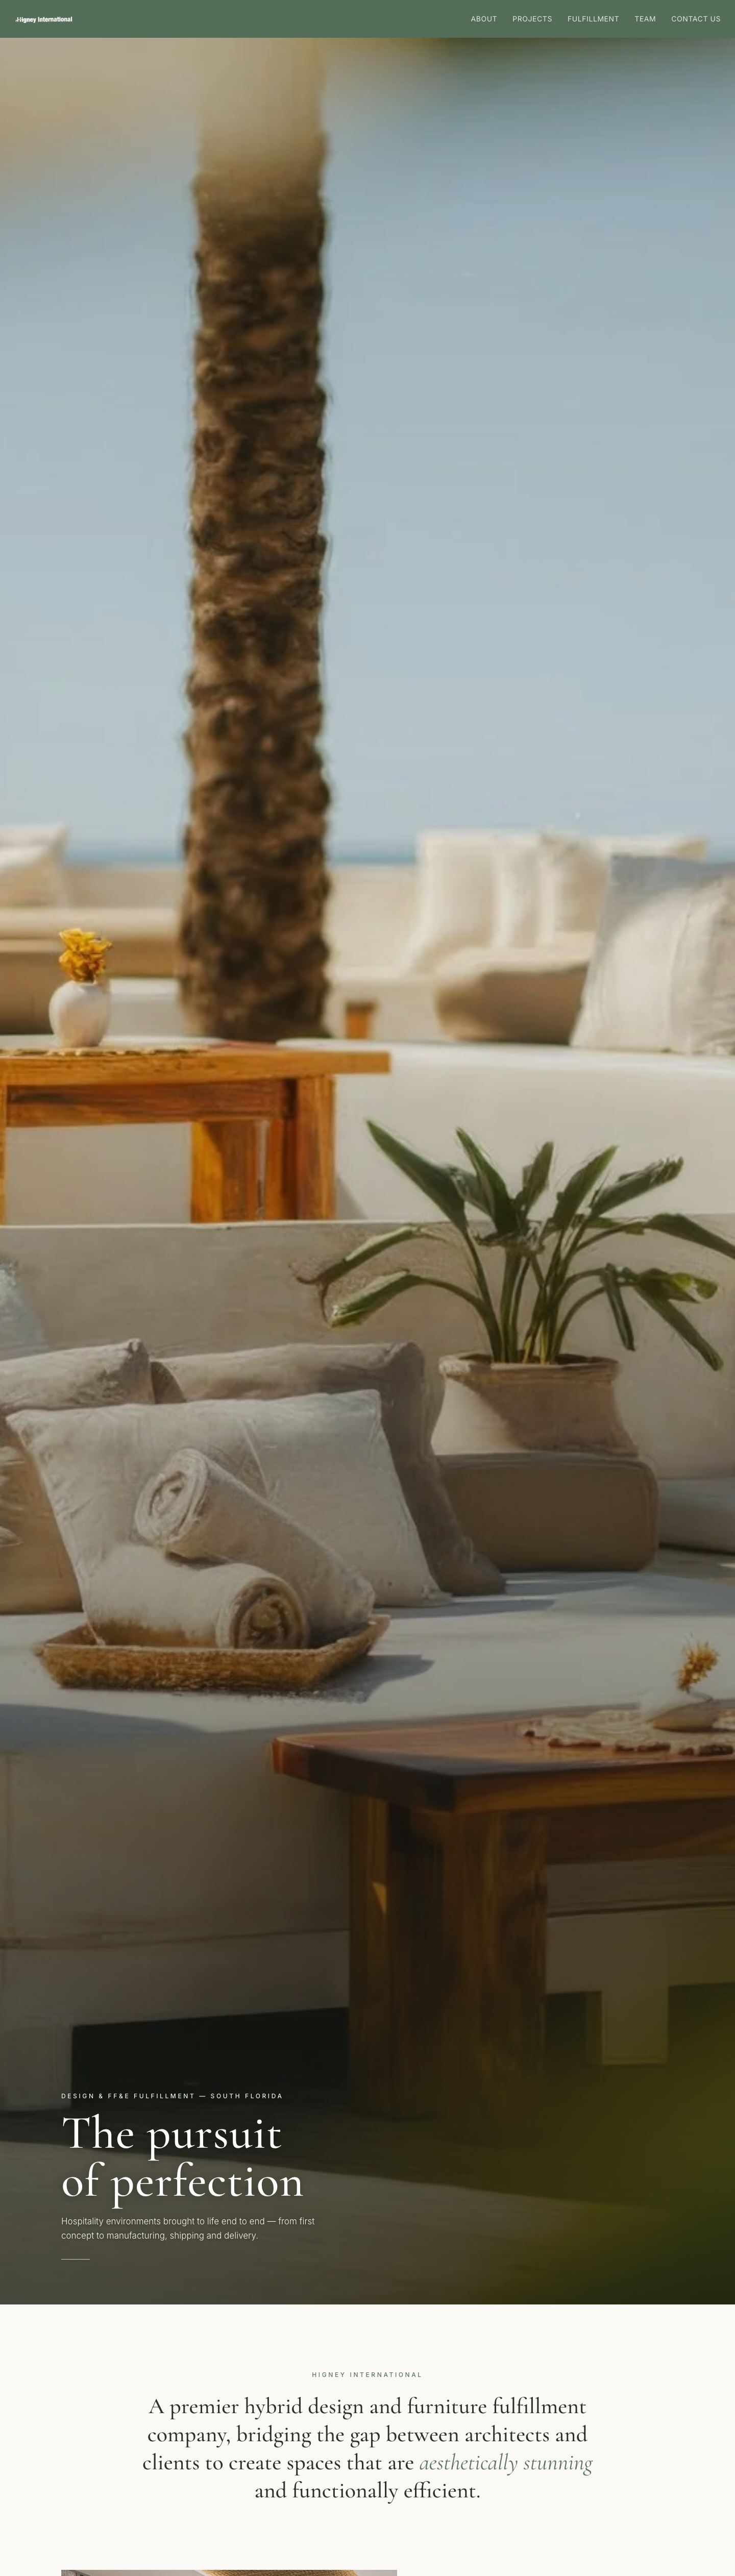
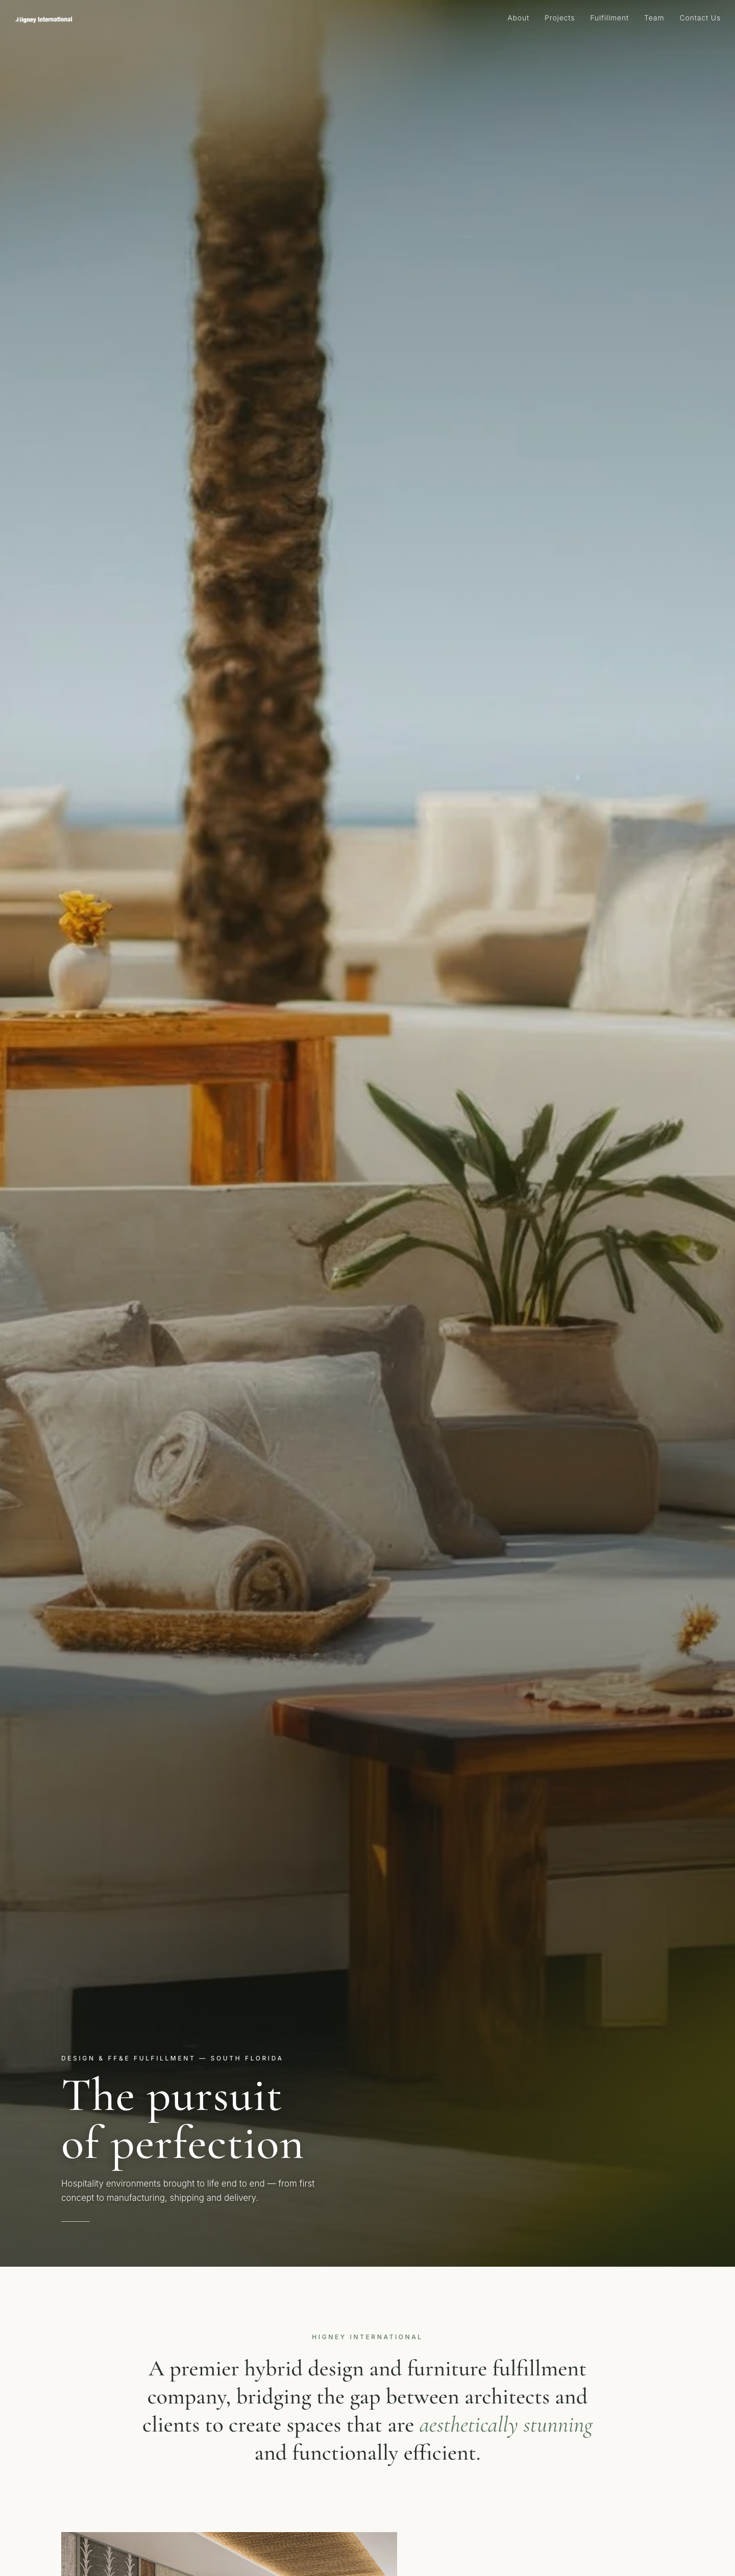
Restyle nav to Eric Brand minimal style: transparent over hero, sage on scroll
Header is now fixed and transparent at the top of the page, letting the
hero photo run edge-to-edge to the very top with the nav overlaid. Links
drop the bold uppercase treatment for quiet title-case Inter 300 with a
subtle underline on hover/active. On scroll past 40px a tiny inline
script toggles .scrolled, fading the bar to solid sage rgba(78,104,84,.97)
so links stay readable past the hero. Top-of-hero scrims strengthened
slightly (dark 0.42 on index, 0.28 band on projects) to keep the white
nav legible over the photos. Mobile hamburger and sage dropdown retained.
Applied identically to index.html and projects.html.

diff --git a/projects.html b/projects.html
@@ -29,17 +29,20 @@
   a{color:inherit;text-decoration:none}
 
   /* Header */
-  header{position:sticky;top:0;z-index:50;background:rgba(78,104,84,.97);backdrop-filter:blur(6px)}
+  header{position:fixed;top:0;left:0;right:0;z-index:50;background:transparent;transition:background .35s ease}
+  header.scrolled{background:rgba(78,104,84,.97);backdrop-filter:blur(6px)}
   .nav{width:100%;margin:0;padding:16px 28px;display:flex;align-items:center;justify-content:space-between}
   .nav img{height:42px;width:auto}
   .nav nav{display:flex;gap:30px}
-  .nav nav a{color:#dfeae3;font-size:14px;font-weight:400;letter-spacing:.04em;text-transform:uppercase;transition:color .2s}
-  .nav nav a:hover,.nav nav a.active{color:#fff}
+  .nav nav a{color:rgba(255,255,255,.92);font-size:14px;font-weight:300;letter-spacing:.06em;
+    border-bottom:1px solid transparent;padding-bottom:2px;transition:color .2s,border-color .2s}
+  .nav nav a:hover,.nav nav a.active{color:#fff;border-bottom-color:rgba(255,255,255,.55)}
   .menu-btn{display:none;background:none;border:none;color:#fff;font-size:24px;cursor:pointer}
 
   /* Hero */
   .hero{position:relative;color:#fff;text-align:center;padding:140px 28px 130px;
-    background:linear-gradient(150deg,rgba(122,154,130,.78) 0%,rgba(90,117,97,.82) 100%),
+    background:linear-gradient(180deg,rgba(21,28,23,.28) 0%,rgba(21,28,23,0) 30%),
+      linear-gradient(150deg,rgba(122,154,130,.78) 0%,rgba(90,117,97,.82) 100%),
       url("assets/6b0a0d959f_DSC08338.jpg") center/cover no-repeat;}
   .hero .eyebrow{font-size:13px;letter-spacing:.32em;text-transform:uppercase;color:#eef3ee;margin-bottom:18px;text-shadow:0 1px 6px rgba(0,0,0,.25)}
   .hero h1{font-family:var(--serif);font-weight:500;font-size:clamp(48px,8vw,86px);line-height:1.02;letter-spacing:.01em;text-shadow:0 2px 14px rgba(0,0,0,.3)}
@@ -241,5 +244,10 @@
   &copy; 2026 Higney International. All rights reserved.
 </footer>
 
+<script>
+  const hdr=document.querySelector('header');
+  const onScroll=()=>hdr.classList.toggle('scrolled',window.scrollY>40);
+  addEventListener('scroll',onScroll,{passive:true});onScroll();
+</script>
 </body>
 </html>

diff --git a/index.html b/index.html
@@ -32,19 +32,21 @@
   .eyebrow{font-size:12px;letter-spacing:.3em;text-transform:uppercase;color:var(--accent);font-weight:500}
 
   /* Header */
-  header{position:sticky;top:0;z-index:50;background:rgba(78,104,84,.97);backdrop-filter:blur(6px)}
+  header{position:fixed;top:0;left:0;right:0;z-index:50;background:transparent;transition:background .35s ease}
+  header.scrolled{background:rgba(78,104,84,.97);backdrop-filter:blur(6px)}
   .nav{width:100%;margin:0;padding:16px 28px;display:flex;align-items:center;justify-content:space-between}
   .nav img{height:42px;width:auto}
   .nav nav{display:flex;gap:30px}
-  .nav nav a{color:#dfeae3;font-size:14px;font-weight:400;letter-spacing:.04em;text-transform:uppercase;transition:color .2s}
-  .nav nav a:hover,.nav nav a.active{color:#fff}
+  .nav nav a{color:rgba(255,255,255,.92);font-size:14px;font-weight:300;letter-spacing:.06em;
+    border-bottom:1px solid transparent;padding-bottom:2px;transition:color .2s,border-color .2s}
+  .nav nav a:hover,.nav nav a.active{color:#fff;border-bottom-color:rgba(255,255,255,.55)}
   .menu-btn{display:none;background:none;border:none;color:#fff;font-size:24px;cursor:pointer}
 
   /* Hero */
   .hero{position:relative;min-height:88vh;display:flex;align-items:flex-end;color:#fff;
     background:url("assets/43e0f48a1c_FINAL1-upscale-4x.jpg") center 30%/cover no-repeat;}
   .hero::after{content:"";position:absolute;inset:0;
-    background:linear-gradient(180deg,rgba(21,28,23,.18) 0%,rgba(21,28,23,.06) 40%,rgba(21,28,23,.72) 100%)}
+    background:linear-gradient(180deg,rgba(21,28,23,.42) 0%,rgba(21,28,23,.05) 32%,rgba(21,28,23,.72) 100%)}
   .hero-inner{position:relative;z-index:1;width:100%;max-width:1280px;margin:0 auto;padding:0 40px 88px;
     animation:rise 1s ease .1s both}
   @keyframes rise{from{opacity:0;transform:translateY(14px)}to{opacity:1;transform:none}}
@@ -243,5 +245,10 @@
   &copy; 2026 Higney International. All rights reserved.
 </footer>
 
+<script>
+  const hdr=document.querySelector('header');
+  const onScroll=()=>hdr.classList.toggle('scrolled',window.scrollY>40);
+  addEventListener('scroll',onScroll,{passive:true});onScroll();
+</script>
 </body>
 </html>